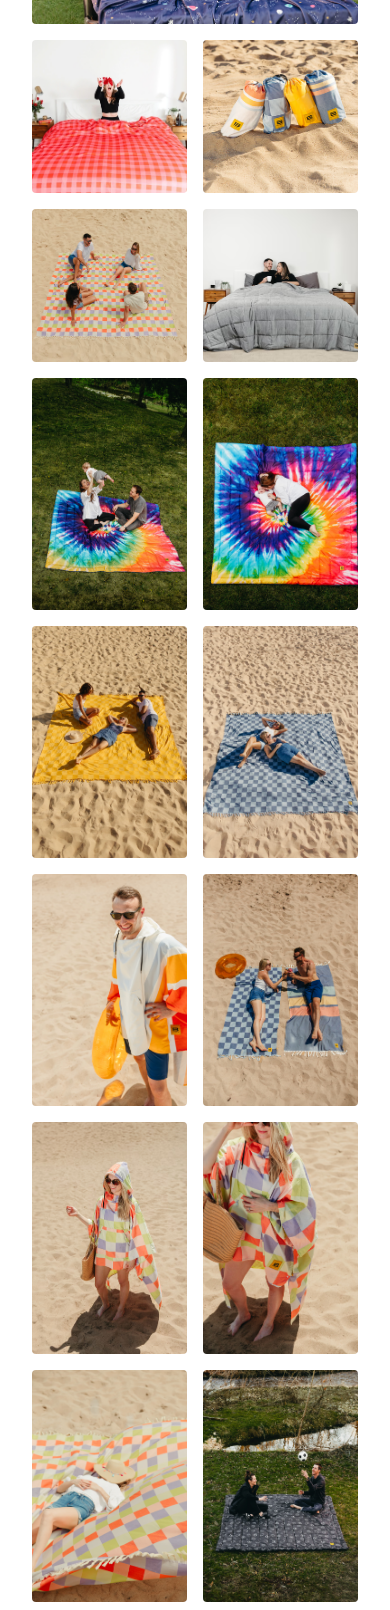
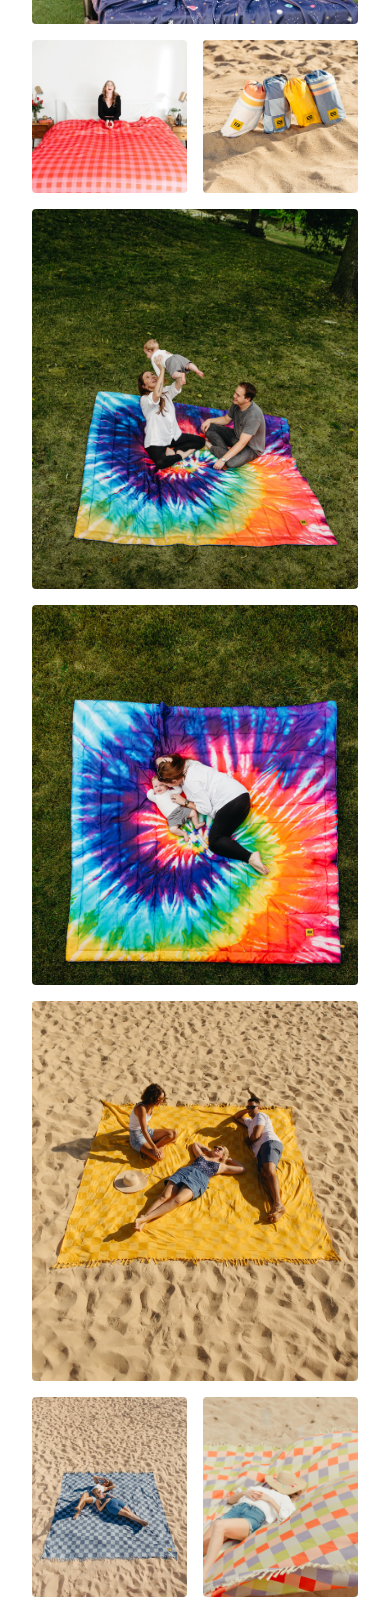
ks-part2 round 1: Big Blanket photos re-tiled in the page's own modules

diff --git a/ks-part2-7c3e91a4/round-1/index.html b/ks-part2-7c3e91a4/round-1/index.html
@@ -126,7 +126,7 @@ dl>div{grid-template-columns:1fr;gap:6px}.close{padding:56px 0}.close p{font-siz
 <div class="compare screenshots"><figure><figcaption>Before · kidsister.co</figcaption><a class="image-link" href="evidence/filters-before-desktop.png" target="_blank" rel="noopener" aria-label="Open filters before screenshot full size"><picture><source media="(max-width: 809px)" srcset="evidence/filters-before-phone.png"><img src="evidence/filters-before-desktop.png" alt="filters: current site" loading="lazy"></picture></a></figure><figure><figcaption>After · staged on the preview</figcaption><a class="image-link" href="evidence/filters-after-desktop.png" target="_blank" rel="noopener" aria-label="Open filters after screenshot full size"><picture><source media="(max-width: 809px)" srcset="evidence/filters-after-phone.png"><img src="evidence/filters-after-desktop.png" alt="filters: preview" loading="lazy"></picture></a></figure></div>
 </article>
 </div></section>
-<section id="big-blanket" class="band"><div class="wrap"><div class="section-intro"><p class="kicker">On the preview</p><h2>Big Blanket photos</h2><p>The photos from the BBCO folder are in. All eighteen sit at the end of the photo section on the Big Blanket case study, after the shots already there: the two wide ones in a row of their own, then the rest in a four-across gallery (two across on phones). Each opens full size like the others on the page, and each has a written description for search and screen readers.</p></div><div class="compare screenshots"><figure><figcaption>Before · kidsister.co</figcaption><a class="image-link" href="evidence/bigblanket-before-desktop.png" target="_blank" rel="noopener" aria-label="Open the Big Blanket before screenshot full size"><picture><source media="(max-width: 809px)" srcset="evidence/bigblanket-before-phone.png"><img src="evidence/bigblanket-before-desktop.png" alt="End of the Big Blanket photo section on the current site" loading="lazy"></picture></a></figure><figure><figcaption>After · preview</figcaption><a class="image-link" href="evidence/bigblanket-after-desktop.png" target="_blank" rel="noopener" aria-label="Open the Big Blanket after screenshot full size"><picture><source media="(max-width: 809px)" srcset="evidence/bigblanket-after-phone.png"><img src="evidence/bigblanket-after-desktop.png" alt="The same spot on the preview, with the new row and the first rows of the new gallery" loading="lazy"></picture></a></figure></div><p style="margin-top:28px"><a href="https://teal-exercise-583649.framer.app/big-blanket" target="_blank" rel="noopener">View Big Blanket on the preview ↗</a> &nbsp;·&nbsp; <a href="evidence/bigblanket-all-desktop.png" target="_blank" rel="noopener">All eighteen in one image ↗</a></p><p class="narrow" style="margin-top:20px">Two things for the call: whether all eighteen stay or a few near-twins come out (the two picnic shots and the two kettlebell shots are close pairs), and whether the end of the photo section is the right spot for them.</p></div></section>
+<section id="big-blanket" class="band"><div class="wrap"><div class="section-intro"><p class="kicker">On the preview</p><h2>Big Blanket photos</h2><p>The photos from the BBCO folder are in. All eighteen sit at the end of the photo section on the Big Blanket case study, after the shots already there, tiled the way the rest of the page is: a trio with the middle shot dropped a touch, a pair, one row of four, and the wide shots in the same offset rows the page already uses. Each opens full size like the others, and each has a written description for search and screen readers.</p></div><div class="compare screenshots"><figure><figcaption>Before · kidsister.co</figcaption><a class="image-link" href="evidence/bigblanket-before-desktop.png" target="_blank" rel="noopener" aria-label="Open the Big Blanket before screenshot full size"><picture><source media="(max-width: 809px)" srcset="evidence/bigblanket-before-phone.png"><img src="evidence/bigblanket-before-desktop.png" alt="End of the Big Blanket photo section on the current site" loading="lazy"></picture></a></figure><figure><figcaption>After · preview</figcaption><a class="image-link" href="evidence/bigblanket-after-desktop.png" target="_blank" rel="noopener" aria-label="Open the Big Blanket after screenshot full size"><picture><source media="(max-width: 809px)" srcset="evidence/bigblanket-after-phone.png"><img src="evidence/bigblanket-after-desktop.png" alt="The same spot on the preview, with the first of the new photo rows" loading="lazy"></picture></a></figure></div><p style="margin-top:28px"><a href="https://teal-exercise-583649.framer.app/big-blanket" target="_blank" rel="noopener">View Big Blanket on the preview ↗</a> &nbsp;·&nbsp; <a href="evidence/bigblanket-all-desktop.png" target="_blank" rel="noopener">All eighteen in one image ↗</a></p><p class="narrow" style="margin-top:20px">Two things for the call: whether all eighteen stay or a few near-twins come out (the two picnic shots and the two kettlebell shots are close pairs), and whether you want them grouped this way or reshuffled.</p></div></section>
 <section id="remaining"><div class="wrap">
 <div class="section-intro"><h2>Service pages</h2><p>Still to come once the copy is in.</p></div>
 <div class="pending">
